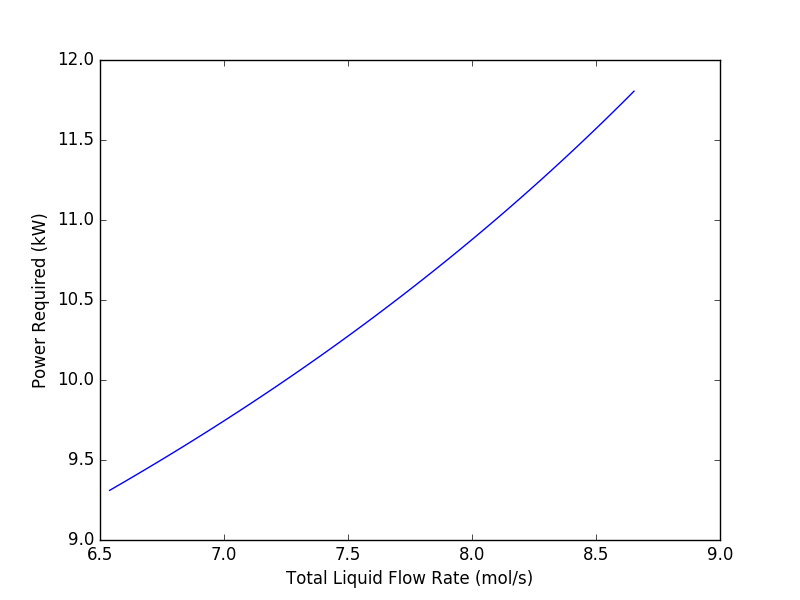
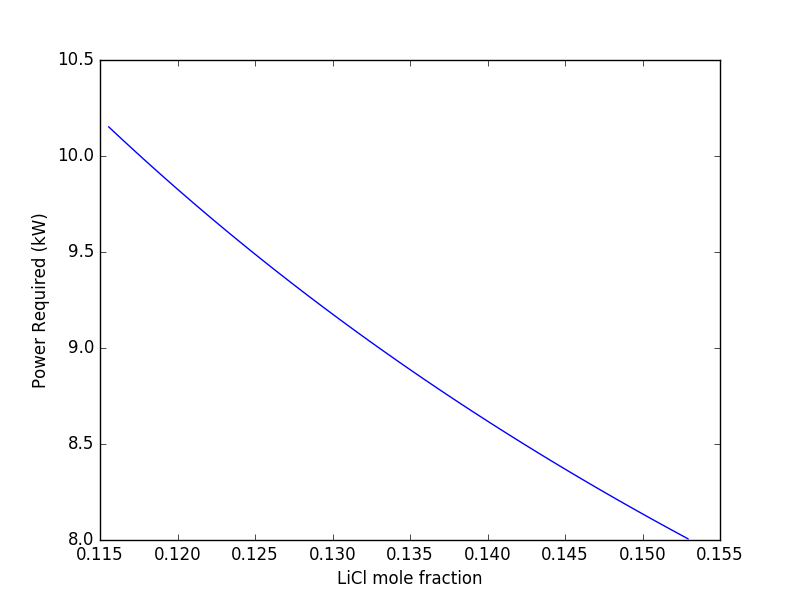
Alternative Absorption Method

diff --git a/VLE.py b/VLE.py
@@ -8,7 +8,7 @@ mol_water_72 = 0.01622
 mol_water_105 = 0.01622
 # molar mass
 LiCl, H2O = 42.394, 18.01
-LiCl_mols = 1;
+LiCl_mols = 1
 
 
 # Input T is in C
@@ -116,19 +116,17 @@ def find_operating_range(Tin, Tout, Treg, RHin, RHout, guess):
 
 
 def get_k(x, T):
-    T = convert_F_to_C(T)
     P_sat = p_vap_solution(x, T)
-
     return P_sat / P
 
 
 def find_moles_of_water(RH, T, guess):
-    T = convert_F_to_C(T)
     f = lambda SH: (SH * P) / (((0.622 + 0.378 * SH) * p_vap_water(T)) * RH) - 1
 
     return sci_opt.fsolve(f, guess) * 29 / 18
 
-def find_water_removed(x_in, RH, T):
+
+def find_water_absorbed(x_in, RH, T):
     T = convert_F_to_C(T)
     K = get_k(x_in, T)
     # 50 mol/s basis for air
@@ -139,20 +137,40 @@ def find_water_removed(x_in, RH, T):
     percent_abs = (np.power(A, 2) - A) / (np.power(A, 2) - 1)
     return V_in * find_moles_of_water(RH, T, .01) * percent_abs
 
+def find_water_absorbed_alt(x_in, x_limit):
+    return np.abs((LiCl_mols / x_in) - (LiCl_mols / x_limit))
 
-def plot_water_removed():
+def plot_water_absorbed():
     range = find_operating_range(72, 85, 105, .6, .8, .1)
     x_range = np.linspace(range[0], range[1], 100)
-    y_range = find_water_removed(x_range, .6, 72)
+    y_range = find_water_absorbed(x_range, .6, 72)
 
     mpl_plt.plot(x_range, y_range)
+    mpl_plt.gca().get_yaxis().get_major_formatter().set_useOffset(False)
     mpl_plt.xlabel("LiCl mole fraction")
-    mpl_plt.ylabel("Water Removed (mol/s per mol/s of LiCl)")
+    mpl_plt.ylabel("Water Absorbed (mol/s per mol/s of LiCl)")
+    mpl_plt.savefig("Water_Absorbed")
     mpl_plt.show()
 
     return
 
-def power_req(x):
+
+def plot_water_absorbed_alt():
+    range = find_operating_range(72, 85, 105, .6, .8, .1)
+    x_range = np.linspace(range[0], range[1], 100)
+    y_range = find_water_absorbed_alt(x_range, range[0])
+
+    mpl_plt.plot(x_range, y_range)
+    mpl_plt.gca().get_yaxis().get_major_formatter().set_useOffset(False)
+    mpl_plt.xlabel("LiCl mole fraction")
+    mpl_plt.ylabel("Water Removed (mol/s per mol/s of LiCl)")
+    mpl_plt.savefig("Water_Absorbed_Alt")
+    mpl_plt.show()
+
+    return
+
+
+def find_power_req(x):
 
     #Initialize constants
     Mw_L = 42.39
@@ -165,7 +183,7 @@ def power_req(x):
     Mw_avg = x * Mw_L + (1 - x) * Mw_H
 
     #Converted value of heat capacity to mole basis (KJ/(mol*K)
-    Cp = 3.57 / 1000 * Mw_avg
+    Cp = 3.07 / 1000 * Mw_avg
 
     #Power in KW
     power = L * Cp * (T_F - T_I)
@@ -176,12 +194,12 @@ def power_req(x):
 def plot_power():
     range = find_operating_range(72, 85, 105, .6, .8, .1)
     x = np.linspace(range[0], range[1], 100)
-    x_range = np.linspace(LiCl_mols / range[0], LiCl_mols / range[1], 100)
-    y_range = power_req(x)
+    y_range = find_power_req(x)
 
-    mpl_plt.plot(x_range, y_range)
-    mpl_plt.xlabel("Total Liquid Flow Rate (mol/s)")
+    mpl_plt.plot(x, y_range)
+    mpl_plt.xlabel("LiCl mole fraction")
     mpl_plt.ylabel("Power Required (kW)")
+    mpl_plt.savefig("Power_Required.png")
     mpl_plt.show()
 
     return
@@ -190,17 +208,26 @@ def plot_power():
 def find_maximum_water_removed():
     range = find_operating_range(72, 85, 105, .6, .8, .1)
     x_range = np.linspace(range[0], range[1], 100)
-    y_range = find_water_removed(x_range, .6, 72)
+    y_range = find_water_absorbed(x_range, .6, 72)
+
+    return np.amax(y_range)
+
+def find_maximum_water_removed_alt():
+    range = find_operating_range(72, 85, 105, .6, .8, .1)
+    x_range = np.linspace(range[0], range[1], 100)
+    y_range = find_water_absorbed_alt(x_range, range[0])
 
     return np.amax(y_range)
 
 #1.1
-# plot_VLE(72, 85, 105, .6, .8)
-# plot_water_removed()
-# find_operating_range(72, 85, 105, .6, .8)
+plot_VLE(72, 85, 105, .6, .8)
+plot_water_absorbed()
+plot_water_absorbed_alt()
+print(find_operating_range(72, 85, 105, .6, .8, .1))
 
 #1.2
-# plot_power()
+plot_power()
 
 #1.3
-# find_maximum_water_removed()
+print(find_maximum_water_removed())
+print(find_maximum_water_removed_alt())
